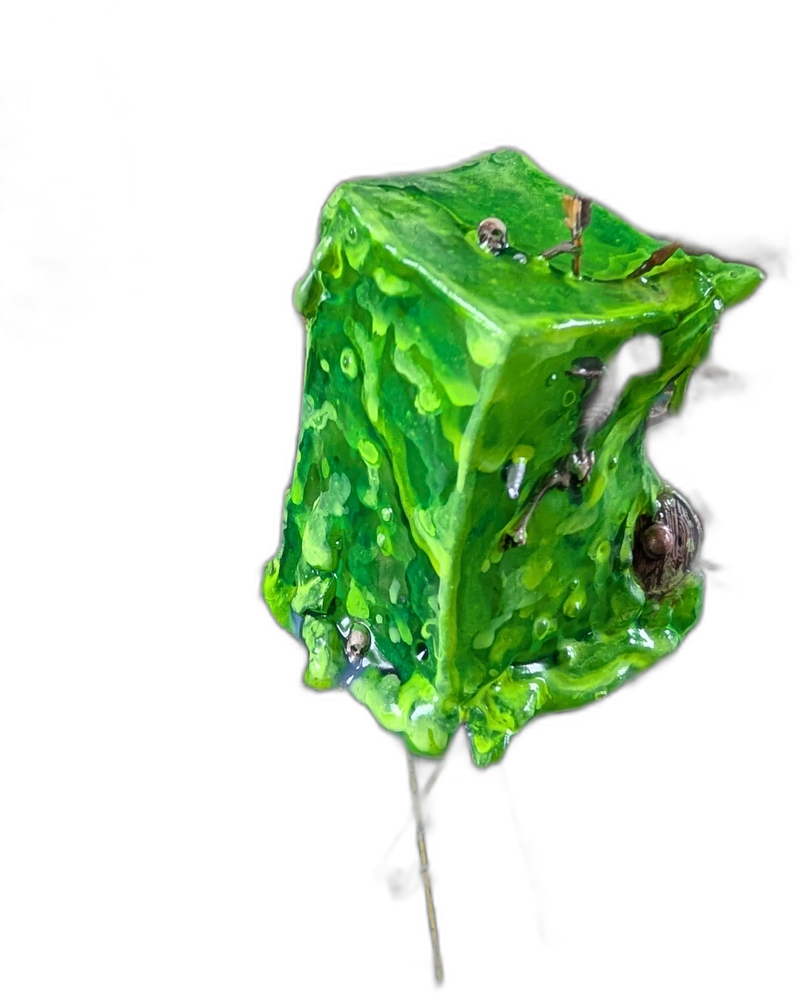
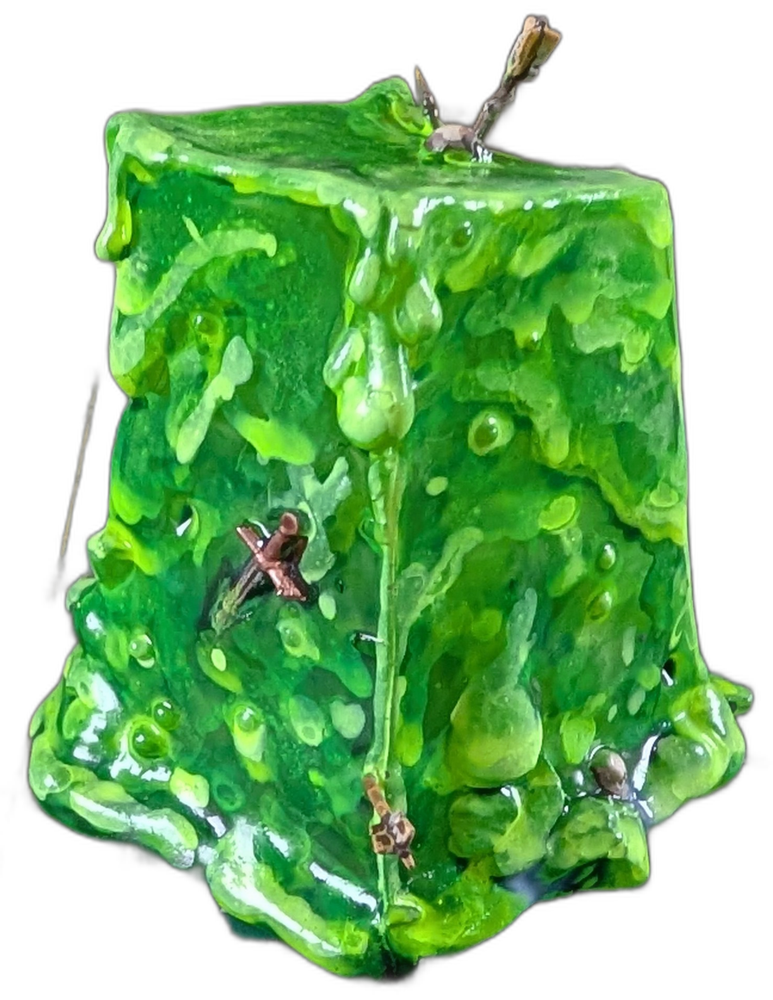
Redo Gelatinous Cube with proper crop - two angles

diff --git a/_posts/oozes/2026-11-17-gelatinous-cube-2.md b/_posts/oozes/2026-11-17-gelatinous-cube-2.md
@@ -1,0 +1,8 @@
+---
+title:  "Gelatinous Cube"
+metadate: "hide"
+categories: [ Oozes, Archon-Studio, DnL-Deuslair ]
+image: "/assets/images/minis/oozes/GelatinousCube2.png"
+visit: "https://archon-studio.com/"
+---
+From the Archon-Studio Dungeons & Lasers: Deuslair Campaign.
